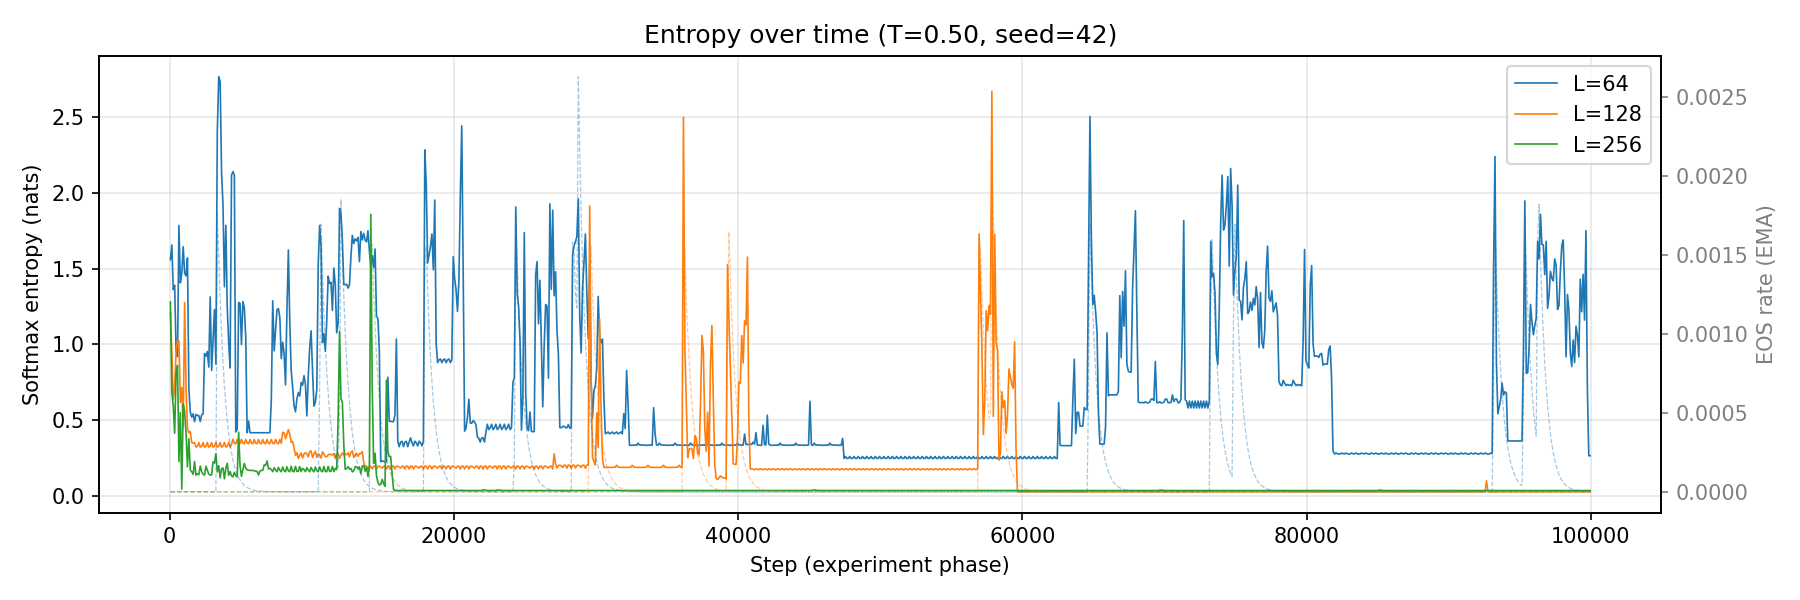
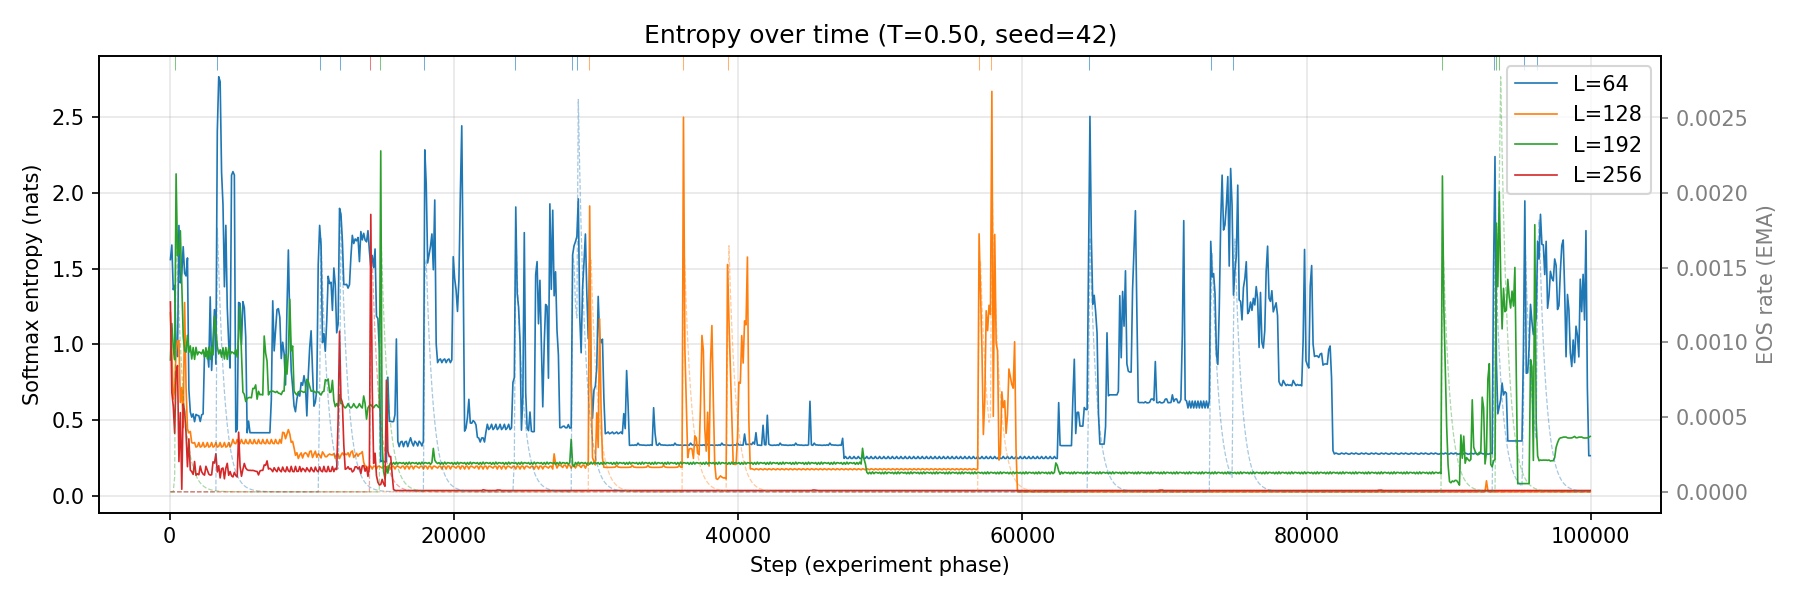
Reorganize docs, update observations with session 3 findings
- Move project-brief.md and share.md to docs/
- Add docs/interaction-topology.md: speculative framing on generative
  dynamics as interaction paradigm
- Add "Current Model" summary to top of observations.md
- Append session 3 entries: staircase of attractor basins, EOS regime
  dependence, multi-W analysis with L=192 anomaly
- Update CLAUDE.md layout to reflect new scripts and docs/ structure
- New scaling figures from multi-W analysis

diff --git a/observations.md b/observations.md
@@ -2,6 +2,28 @@
 
 Append-only record of findings. Each entry includes reproduction commands.
 
+## Current Model
+
+*Rewritten as understanding evolves. Entries below are the evidence trail.*
+
+**System:** SmolLM-135M generating into its own context. No external input. Pure autoregressive dynamics.
+
+**Three regimes** at fixed L: collapse (T≤0.60), rich dynamics (T~0.80–1.00), noise (T≥1.50). Crossover zone is T~0.70–0.80.
+
+**Two orthogonal actuators:**
+- T (temperature): per-step noise floor. Controls escape probability from attractors.
+- L (context length): memory horizon. Controls attractor basin depth and stickiness.
+
+**Attractor structure at T=0.50 is a staircase, not a binary.** Each L value has a distinct entropy floor — L=64 sits on a high meta-stable basin (~0.2–0.4 nats), L=128 on a lower false floor (~0.1–0.2 nats) before eventually dropping to the true floor (~60k steps), L=256 hits the true zero-entropy floor by ~15k steps. Collapse is a timescale phenomenon: every T=0.50 run may collapse eventually; L sets how fast you descend the staircase.
+
+**L=192 anomaly at T=0.50:** Non-monotonic compressibility. At W=16, L=192 (1.19) > L=64 (1.05) > L=128 (0.90) > L=256 (0.78). L=192 appears to lock into a short-period loop attractor — highly structured locally but not at context scale. Awaiting seed replication (seeds 123, 7 running) to confirm vs. seed artifact.
+
+**W (measurement window) is a third dimension.** Compressibility depends strongly on W. Standard grid: W ∈ {16, 32, 64, 128, 256}. At T=0.50, L-curves separate dramatically across W. At T≥0.90, L barely matters at any W. W=16 hits gzip overhead floor (compressibility > 1.0 is meaningless). Useful range: W≥32.
+
+**EOS is regime-dependent.** At T=1.00: interior signal — fires from the dense center of phase space (richest dynamics). At T=0.50: transition signal — fires during escape attempts from attractors. EOS rate peaks at T=1.00, suppressed by L in collapse regime (13→3→1 across L=64/128/256 at T=0.50).
+
+**Three-sensor framework:** entropy (model uncertainty), compressibility (observer-assessed structure), EOS rate (model-assessed coherence). Each probes a different aspect. All three needed for regime identification.
+
 ---
 
 ### 2026-03-06 — Initial L=64 temperature sweep (seed=42)
@@ -144,6 +166,75 @@ for p in sorted(Path('data/runs').glob('*.parquet')):
     blocks = [int(exp.eos[i*bs:(i+1)*bs].sum()) for i in range(5)]
     print(f'{p.stem}: {n} tokens, EOS={int(exp.eos.sum())} rate={exp.eos.mean():.6f} blocks={blocks}')
 "
+```
+
+---
+
+### 2026-03-08 — Staircase of attractor basins at T=0.50
+
+**Data:** `L{0064,0128,0256}_T0.50_S42.parquet` (100k each)
+
+**Visual inspection of `Lmulti_T0.50_S42_entropy.png` reveals three distinct entropy floors,** not just "collapsed vs active":
+
+1. **L=256 (green):** Hits true zero-entropy floor at ~15k steps. Permanent lock-in.
+2. **L=128 (orange):** Meta-stable false floor at ~0.1–0.2 nats for ~45k steps, with intermittent escape bursts. Falls to true floor just before 60k steps.
+3. **L=64 (blue):** Own floor at ~0.2–0.4 nats with frequent excursions above. Has not cascaded to the deeper basins within 100k steps.
+
+**Implication:** Collapse is a timescale phenomenon, not a binary regime boundary. There's a hierarchy of attractor basins at progressively lower entropy. L controls cascade rate through them. Testable prediction: extend L=64 T=0.50 significantly — does it eventually find L=128's false floor, then the true floor?
+
+```bash
+python plot.py --runs data/runs/L*_T0.50_S42.parquet --plots entropy
+```
+
+---
+
+### 2026-03-08 — EOS phase-space position is regime-dependent
+
+**Data:** Phase portraits across T={0.50, 1.00, 1.50}, all L values.
+
+**At T=1.00:** EOS diamonds (all L) sit squarely in the interior of their respective phase-portrait clouds. Not at edges, not at extremes. EOS is an interior/coherence signal — the model tries to end during richest dynamics.
+
+**At T=0.50:** L=64 EOS events scatter across escape bursts (high entropy, high compressibility). L=256 EOS events (just 1) near the collapsed origin. EOS fires during transitions, not from the interior.
+
+**At T=1.50:** EOS events sparse. Consistent with rate peaking at T=1.00.
+
+The meaning of EOS depends on the regime. "Model wants to stop" means different things in collapse vs rich dynamics.
+
+```bash
+python plot.py --runs data/runs/L*_T1.00_S42.parquet --plots phase
+python plot.py --runs data/runs/L*_T0.50_S42.parquet --plots phase
+```
+
+---
+
+### 2026-03-08 — Multi-window analysis: W as measurement dimension
+
+**Data:** All 24 runs analyzed at W ∈ {16, 32, 64, 128, 256}.
+
+**Previous approach used W=L and W=L/4** — both scale with L, making cross-L comparison ambiguous. Fixed W=64 across all L provides consistent measurement.
+
+**Compressibility at fixed W=64 vs L:**
+
+| L\T | 0.50 | 0.60 | 0.70 | 0.80 | 0.90 | 1.00 | 1.50 |
+|-----|------|------|------|------|------|------|------|
+| 64  | 0.35 | 0.48 | 0.61 | 0.68 | 0.72 | 0.74 | 0.71 |
+| 128 | 0.26 | 0.33 | 0.55 | 0.63 | 0.71 | 0.76 | 0.70 |
+| 192 | 0.35 | 0.31 | 0.56 | 0.60 | 0.70 | 0.79 | 0.70 |
+| 256 | 0.23 | --   | --   | --   | --   | 0.74 | 0.71 |
+
+**Key patterns:**
+- T=0.50–0.60: compressibility *decreases* with L (deeper collapse = less local structure visible at W=64)
+- T=1.00: compressibility *increases* with L (longer context creates more structure)
+- T≥0.90: L barely matters — flat across all context lengths
+- Crossover (slope flip) is between T=0.70 and T=0.80
+
+**L=192 anomaly at T=0.50:** At W=16, L=192 (1.19) is more compressible than L=64 (1.05). Non-monotonic in L. Suggests L=192 locks into a short-period loop — high local structure, low context-scale structure. Seed replication in progress to verify.
+
+**W=16 hits gzip overhead floor.** Compressibility > 1.0 means the gzip header costs more than the data. W=16 is below the useful measurement range.
+
+```bash
+python analyze_windows.py           # compute standard W grid
+python plot_window_scaling.py       # generate scaling plots
 ```
 
 ---

diff --git a/docs/interaction-topology.md b/docs/interaction-topology.md
@@ -1,0 +1,81 @@
+# Interaction Topology
+
+Speculative framing that emerged from Phase 0 observations. Not a proposal — a direction.
+
+## The current paradigm
+
+AI interaction is transactional:
+- User provides input (prompt)
+- Model processes it within fixed parameters (temperature, max tokens, context window)
+- Model produces output bounded by EOS/BOS, matching implicit or explicit spec
+- Control surface: prompt engineering (input shaping), maybe temperature (usually hidden)
+- Reproducibility is a goal; dynamics are invisible
+
+Everything interesting about the generative process is flattened into a black box between input and output boundaries.
+
+## What the instruments show
+
+The autoloop experiments reveal a continuous dynamical system with observable internal state, not a function mapping inputs to outputs. Key findings:
+
+**Multiple interacting control dimensions:**
+- T (temperature): per-step noise floor, fast actuator
+- L (context length): memory horizon / attractor depth, structural actuator
+- W (measurement window): observer resolution — not a generation parameter, but changes what patterns are visible and therefore what feedback is possible
+
+**These dimensions aren't independent.** They form a topology:
+- Phase boundaries exist (T~0.70-0.80 is a crossover zone)
+- Attractor basins have depth that scales non-monotonically with L (the L=192 anomaly)
+- The same system shows qualitatively different dynamics depending on where it sits in T×L space
+- W reveals or hides structure depending on scale — the "instrument" is part of the system
+
+**EOS is an interior signal, not a boundary marker.** At T=1.00 (richest dynamics), EOS fires from the dense center of phase space — the model tries to end when it's most engaged, not when it's stuck or lost. At T=0.50 (collapse), EOS fires during escape attempts from attractors. The meaning of EOS depends on the regime.
+
+## The reframe
+
+What if interaction with a generative model isn't "submit query, receive answer" but navigating a dynamical system together?
+
+- The user isn't providing input to be processed — they're perturbing the system's trajectory through phase space
+- The model isn't producing output to a spec — it's evolving along attractors that the control surface shapes
+- EOS isn't "I'm done" — it's a coherence signal from the interior of the dynamics
+- The "quality" of output isn't about matching a spec — it's about the region of phase space the system occupies
+
+## Control surface (speculative)
+
+| Actuator | Timescale | What it controls |
+|----------|-----------|-----------------|
+| T (temperature) | Per-step | Noise floor, escape probability |
+| L (context length) | Structural | Memory depth, attractor stickiness |
+| W (measurement window) | Observer | What scales of structure are visible/steerable |
+| Embedding-space steering | Directional | Semantic trajectory (not yet explored) |
+| User input | Perturbation | Phase-space displacement |
+
+Each operates on a different timescale. A controller that navigates all of them simultaneously is qualitatively different from "set temperature to 0.7 and hope for the best."
+
+## What this implies
+
+1. **The phase space is the interface.** Not the text. The text is a projection of a trajectory through a high-dimensional dynamical system. The interesting thing to observe, steer, and interact with is the trajectory itself.
+
+2. **Reproducibility is the wrong goal.** Two runs through the same phase-space region produce different text but similar dynamics. The dynamics are what matter for interaction quality, not token-level reproducibility.
+
+3. **Boundaries are regime-dependent.** Where to "stop" isn't a fixed criterion — it depends on what regime the system is in. An EOS in the rich-dynamics regime means something different from an EOS in the collapse regime.
+
+4. **The observer's resolution matters.** W isn't just an analysis parameter — it determines what feedback is available for control. A controller with W=16 sees different structure than one with W=256. Multi-scale observation isn't optional, it's fundamental.
+
+## Open questions
+
+- Can a human interact meaningfully with phase-space information, or does this require automated control?
+- What does embedding-space steering look like in this framework? Is it another actuator, or does it change the topology itself?
+- Is this specific to autoregressive text generation, or does it generalize to other generative modalities?
+- The "staircase of basins" at T=0.50 — are these a property of the model, the tokenizer, or the generation process? Do they exist in larger models?
+
+## Connection to autoloop experiments
+
+This framing emerged directly from observing:
+- Three-regime structure (collapse / rich / noise) and the sharp transitions between them
+- T and L as orthogonal actuators with different timescales
+- Non-monotonic L effects (the L=192 anomaly at T=0.50)
+- EOS as interior signal at T=1.00 vs boundary signal at T=0.50
+- W as measurement resolution that reveals/hides structure at different scales
+- The "memory-depth annealing" concept: L-reduction as escape mechanism
+
+All of this was invisible until we built instruments to see it.

diff --git a/CLAUDE.md b/CLAUDE.md
@@ -2,7 +2,7 @@
 
 ## Project
 
-Multi-scale complexity control in closed-loop autoregressive generation. See `project-brief.md` for full design, `observations.md` for findings log.
+Multi-scale complexity control in closed-loop autoregressive generation. See `docs/project-brief.md` for full design, `observations.md` for findings log.
 
 ## Repository Layout
 
@@ -12,12 +12,18 @@ analyze.py           # Post-hoc analysis (arbitrary-W compressibility, stationar
 plot.py              # Visualization (5 plot types + EOS markers, CLI with --runs and --plots)
 utils.py             # Shared primitives (compressibility, eos_ema)
 reproduce_plots.py   # Regenerate all standard plots from available data (with caching)
+analyze_windows.py   # Recompute analysis at standard W grid [16,32,64,128,256]
+plot_window_scaling.py # Window scaling plots (comp vs L, comp vs W, heatmaps)
 pilot_sweep.py       # Batch runner for pilot grid (idempotent, crash-resilient)
 crossover_sweep.py   # Batch runner for T-densification in crossover region
-share.md             # Draft post/article for sharing findings
+seed_sweep.py        # Batch runner for seed replication (seeds 123, 7)
+explorer.md          # Interactive explorer design doc (pre-build)
 run-index.md         # Run tracker, grid overview, phase planning
-observations.md      # Append-only findings log with reproduction commands
-project-brief.md     # Research design document
+observations.md      # Append-only findings log with current model summary
+docs/                # Longer-form documents
+  project-brief.md   # Research design document
+  share.md           # Draft post/article for sharing findings
+  interaction-topology.md  # Speculative framing: generative dynamics as interaction paradigm
 data/                # Gitignored except figures
   model/SmolLM-135M/ # Local model weights (pre-downloaded)
   runs/              # Parquet files + JSON sidecars + checkpoints + analysis cache (.W*.analysis.pkl)
